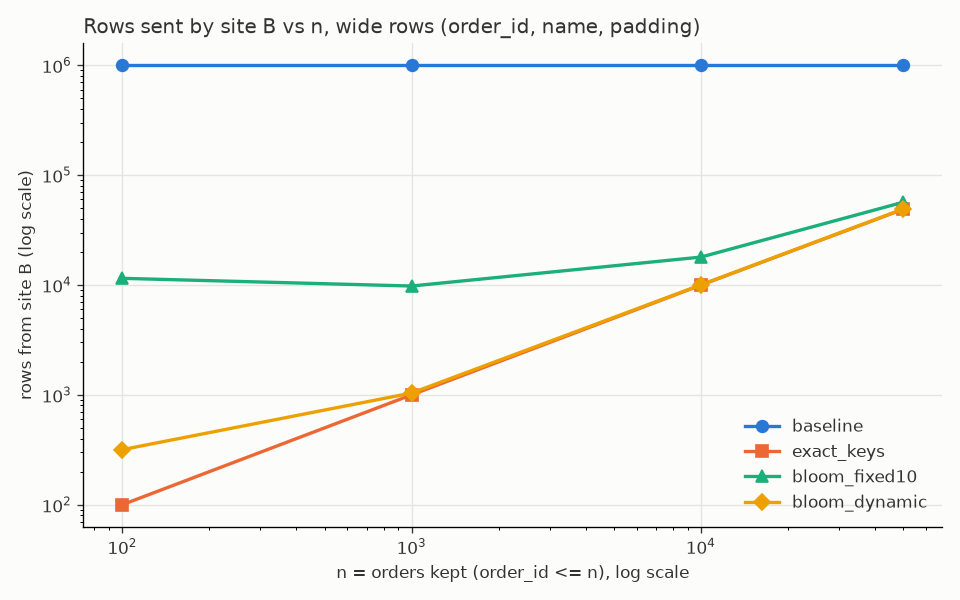
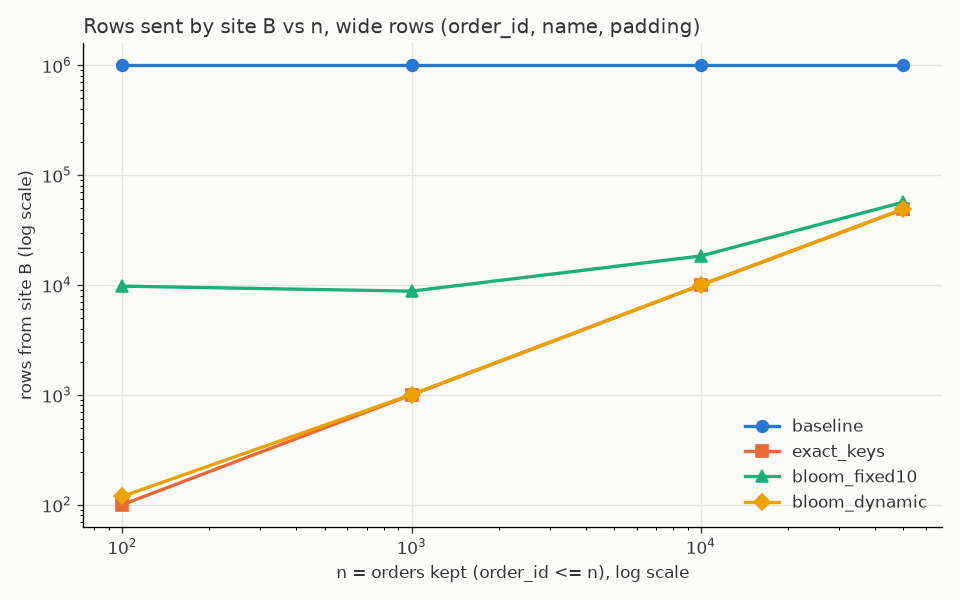
Refresh mid-sem results with enhanced double hashing (old charts in docs/midsem/v1)

diff --git a/docs/fp_investigation.md b/docs/fp_investigation.md
@@ -129,7 +129,20 @@ Possible future improvements (**not done**, both would change a fixed design dec
 - not forcing h2 to be odd, which would halve the floor when m is even (we counted 13 instead of 25 at n = 100);
 - taking more hash bits per key, for example a second `hashint4extended` call with another seed.
 
-## 5. Compatibility: filter version 2
+## 5. Effect on the benchmark
+
+We reran the full Batch 4 benchmark (`bench/run_all.sh`) with enhanced double hashing. All 36 rows are still exactly correct. Rows that site B sends back for `bloom_dynamic` (narrow rows; false positives = rows − distinct keys):
+
+| n | b | distinct keys | rows from B, v1 | rows from B, v2 | false positives v1 → v2 | total bytes v1 → v2 |
+|---:|---:|---:|---:|---:|---:|---:|
+| 100 | 26.40 | 100 | 315 | 137 | 215 → 37 | 5,995 → 3,009 |
+| 1,000 | 21.60 | 999 | 1,077 | 1,026 | 78 → 27 | 23,516 → 22,660 |
+| 10,000 | 16.80 | 9,955 | 10,290 | 10,265 | 335 → 310 | 214,505 → 214,086 |
+| 50,000 | 13.41 | 48,738 | 50,269 | 50,240 | 1,531 → 1,502 | 1,006,849 → 1,006,362 |
+
+At n = 100 the Bloom query now moves half the bytes. At n = 1,000 `bloom_dynamic` (22,660 bytes) now beats the exact key list (23,648 bytes). For large n nothing changes, as expected. The b sweep (n = 10,000) still has its minimum next to the predicted b*: narrow b = 18 (b* = 16.8; b = 16 and b = 18 differ by only 0.2%), wide b = 20 (b* = 20.45). The old charts are kept in `docs/midsem/v1/`, and the new ones are in `docs/midsem/`.
+
+## 6. Compatibility: filter version 2
 
 Site A builds the filter and site B tests keys against it, so both **must** compute the same positions. A filter built by the old code but read with the new positions could silently drop matching rows (false negatives), and the join result would be wrong. So the filter header's version went from 1 to 2 (`SJB_VERSION` in `sjbloom/sjb_filter.h`). A filter with any other version is refused:
 
@@ -138,7 +151,7 @@ ERROR:  sjbloom: filter has version 1, but this sjbloom understands only version
 HINT:  Site A and site B must run the same sjbloom build. Install it on both sites and rebuild the filter.
 ```
 
-## 6. How to reproduce
+## 7. How to reproduce
 
 ```bash
 source setup/env.example.sh
